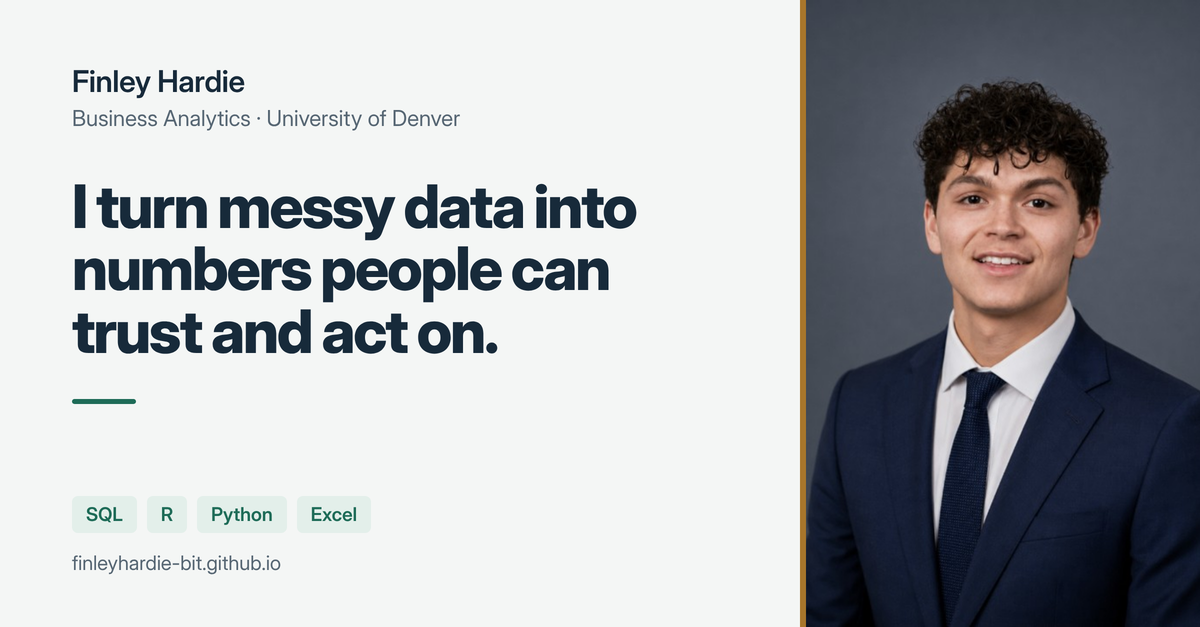
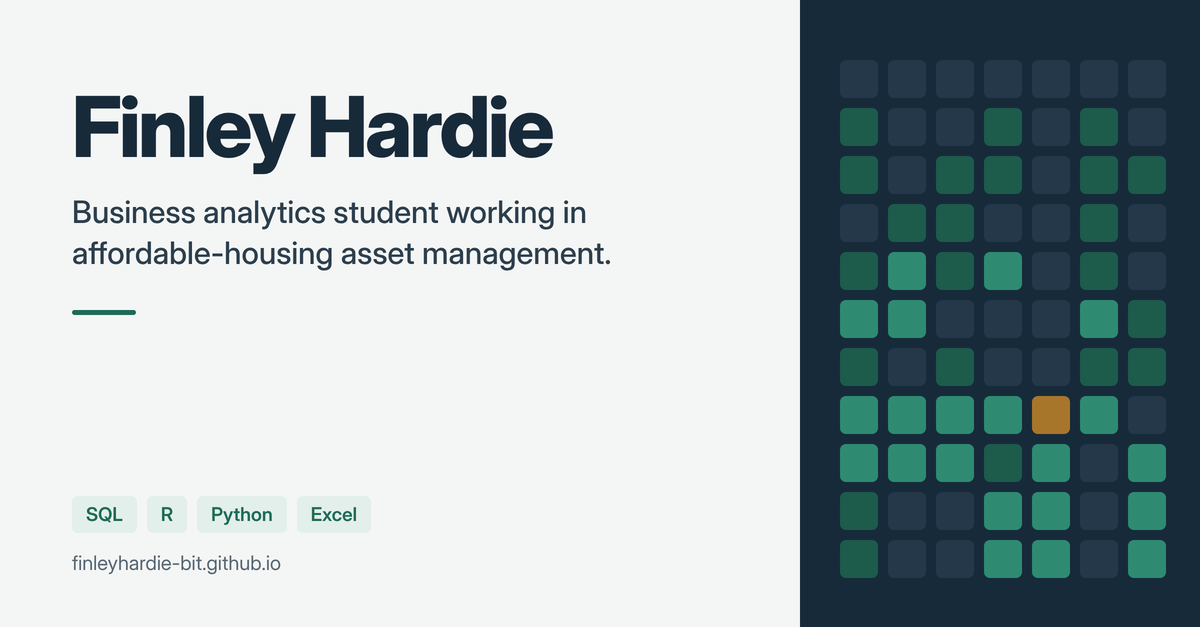
Plainer headline and new link preview graphic
Claude-Session: https://claude.ai/code/session_01LSg1vokz6eucsxDGSQBkyi

diff --git a/index.html b/index.html
@@ -29,8 +29,8 @@
 
 <section class="hero"><div class="wrap">
 <div>
-<h1 class="statement">I turn messy data from many sources into numbers people can trust and act on.</h1>
-<p class="intro">I'm a Business Analytics student at the University of Denver's Daniels College of Business, minoring in French. I work in asset management for an affordable-housing developer, where I build budgets, dashboards and portfolio trackers for LIHTC properties. I grew up across Europe and I'm a native French speaker.</p>
+<h1 class="statement">Business analytics student working in affordable-housing asset management.</h1>
+<p class="intro">I study Business Analytics at the University of Denver's Daniels College of Business, with a minor in French. At Smith &amp; Henzy I build budgets, dashboards and portfolio trackers for LIHTC properties. I grew up across Europe and I'm a native French speaker.</p>
 <div class="seeking"><strong>What's next</strong>I graduate in May 2027 and join Smith &amp; Henzy full time that July. I'm always happy to connect with people working in analytics, real estate finance and affordable housing.</div>
 <div class="cta">
 <a class="btn primary" href="projects.html">See my projects</a>

diff --git a/assets/style.css b/assets/style.css
@@ -50,7 +50,7 @@ p{margin:0 0 1em;max-width:var(--measure)}
 /* hero */
 .hero{padding:72px 0 56px}
 .hero .wrap{display:grid;grid-template-columns:minmax(0,1.55fr) minmax(0,1fr);gap:56px;align-items:center}
-.hero .statement{font:700 clamp(2rem,4.4vw,3.35rem)/1.08 var(--display);letter-spacing:-.025em;margin:0 0 24px;max-width:18ch}
+.hero .statement{font:700 clamp(2rem,4.4vw,3.35rem)/1.08 var(--display);letter-spacing:-.025em;margin:0 0 24px;max-width:20ch}
 .hero .intro{font-size:1.15rem;color:var(--muted);max-width:52ch}
 .hero .seeking{margin-top:28px;padding:16px 18px;border-left:3px solid var(--green);background:var(--green-soft);max-width:52ch}
 .hero .seeking strong{display:block;font-family:var(--display);font-size:1.05rem}

diff --git a/_source/build.py b/_source/build.py
@@ -73,8 +73,8 @@ def fig(src, alt, cap):
 home = f"""
 <section class="hero"><div class="wrap">
 <div>
-<h1 class="statement">I turn messy data from many sources into numbers people can trust and act on.</h1>
-<p class="intro">I'm a Business Analytics student at the University of Denver's Daniels College of Business, minoring in French. I work in asset management for an affordable-housing developer, where I build budgets, dashboards and portfolio trackers for LIHTC properties. I grew up across Europe and I'm a native French speaker.</p>
+<h1 class="statement">Business analytics student working in affordable-housing asset management.</h1>
+<p class="intro">I study Business Analytics at the University of Denver's Daniels College of Business, with a minor in French. At Smith &amp; Henzy I build budgets, dashboards and portfolio trackers for LIHTC properties. I grew up across Europe and I'm a native French speaker.</p>
 <div class="seeking"><strong>What's next</strong>I graduate in May 2027 and join Smith &amp; Henzy full time that July. I'm always happy to connect with people working in analytics, real estate finance and affordable housing.</div>
 <div class="cta">
 <a class="btn primary" href="projects.html">See my projects</a>
